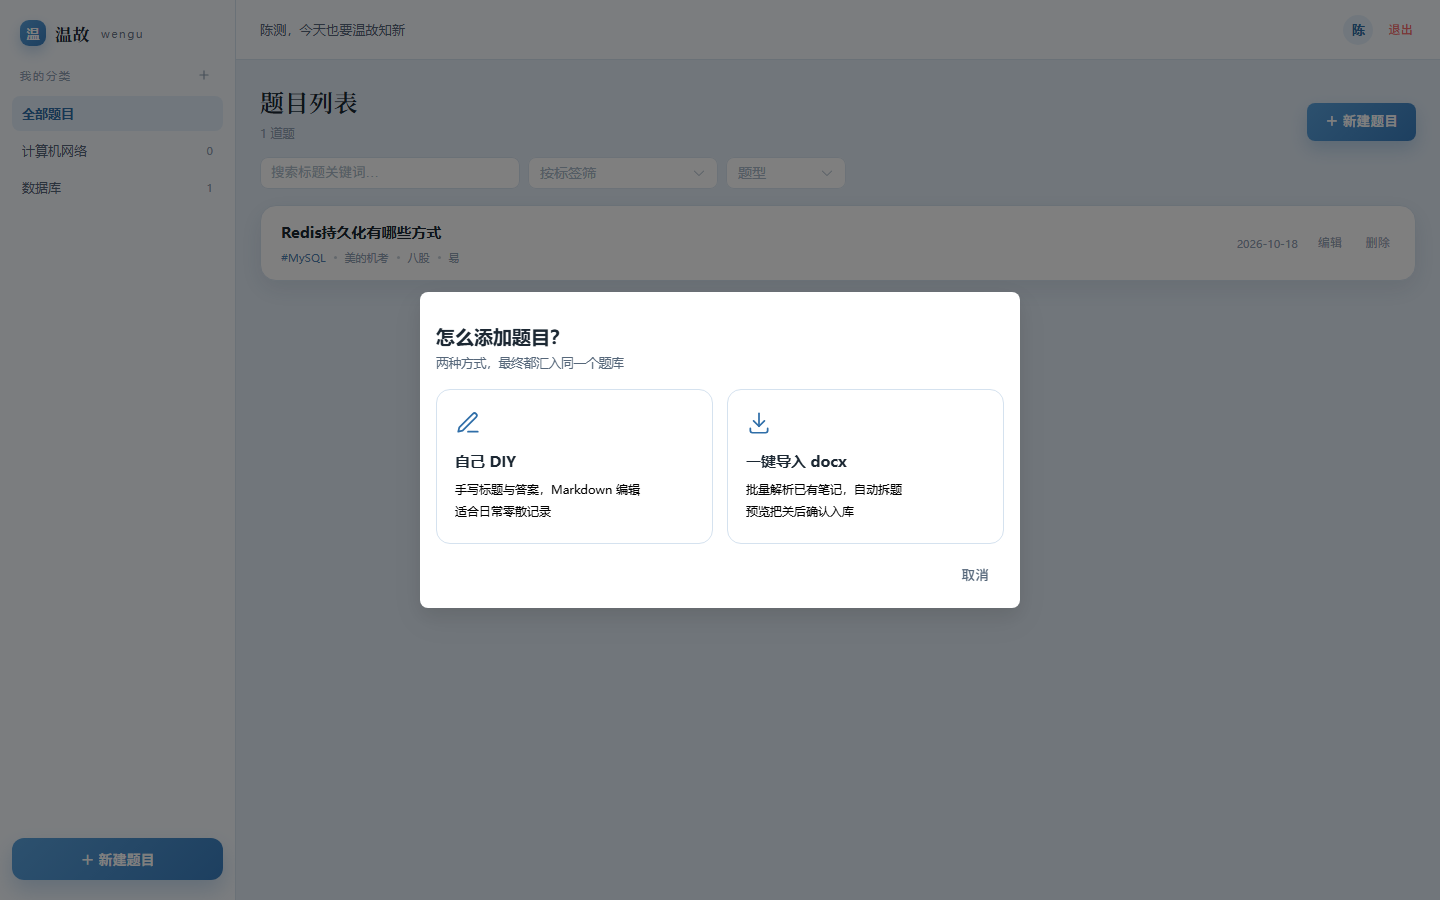
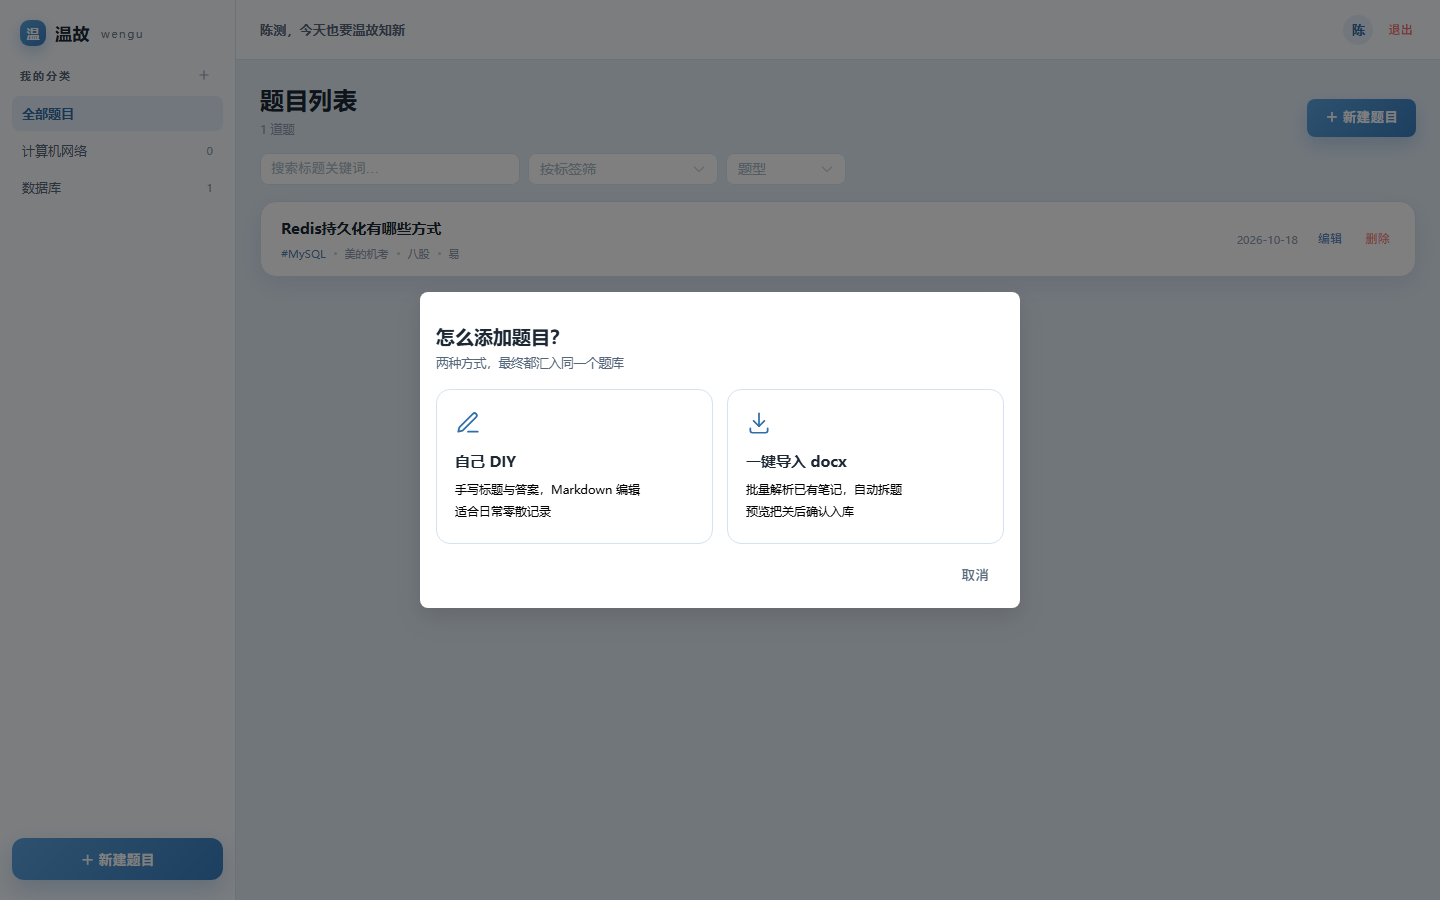
fix(ui): 标题/导航改黑体加粗；行内操作恢复蓝红原色且悬停不加粗
- 全局 h1~h4 700；页面标题去掉衬线改黑体（详情正文标题保留衬线）
- 品牌名/分类标题/问候语字重提升（800/600）
- 列表行编辑/删除：移除颜色覆盖与 hover 变色，恢复 Element 原生 primary/danger
- ui-guidelines 补充标题字重与行内操作规范

diff --git a/frontend/src/views/QuestionListView.vue b/frontend/src/views/QuestionListView.vue
@@ -108,7 +108,7 @@ function remove(id: string) {
 <template>
   <div class="page-head">
     <div>
-      <h1 class="serif">题目列表</h1>
+      <h1>题目列表</h1>
       <p class="sub">{{ total }} 道题<span v-if="hasFilter"> · 已筛选</span></p>
     </div>
     <el-button class="primary-btn" @click="showCreate = true">＋ 新建题目</el-button>
@@ -175,7 +175,7 @@ function remove(id: string) {
 
 <style scoped>
 .page-head { display: flex; justify-content: space-between; align-items: flex-end; gap: 16px; margin-bottom: var(--sp-4) }
-.page-head h1 { margin: 0; font-size: var(--fs-24); font-weight: 600; color: var(--ink); letter-spacing: .5px }
+.page-head h1 { margin: 0; font-size: var(--fs-24); font-weight: 700; color: var(--ink); letter-spacing: .3px }
 .page-head .sub { margin: 6px 0 0; font-size: var(--fs-12); color: var(--ink-3) }
 .primary-btn {
   background: var(--brand-grad); border: none; color: #fff; font-weight: 600;
@@ -209,14 +209,12 @@ function remove(id: string) {
 .dot { width: 3px; height: 3px; border-radius: 50%; background: var(--ink-3); opacity: .5 }
 .right-col { display: flex; align-items: center; gap: var(--sp-4); flex-shrink: 0 }
 .date { font-size: var(--fs-11); color: var(--ink-3); font-variant-numeric: tabular-nums }
-/* 操作区常驻但低对比：不做"突然浮现"，悬停只做颜色加深 */
+/* 操作区：保持 Element 原生蓝/红，不做悬停变色与字重变化（避免浮夸） */
 .ops { display: flex; gap: 2px }
 .ops :deep(.el-button) {
-  color: var(--ink-3); font-size: var(--fs-12); font-weight: 400;
-  padding: 2px 4px; height: auto; transition: color .18s ease;
+  font-size: var(--fs-12); font-weight: 400;
+  padding: 2px 4px; height: auto;
 }
-.ops :deep(.el-button:hover) { color: var(--brand-deep) }
-.ops :deep(.el-button.is-link:hover) { color: var(--brand-deep) }
 .pager { display: flex; justify-content: center; margin-top: var(--sp-5) }
 
 .empty-actions { display: flex; flex-direction: column; align-items: center; gap: 4px }
@@ -228,7 +226,6 @@ function remove(id: string) {
   .sel, .sel-sm { width: calc(50% - 4px) }
   .row { padding: 14px 14px; align-items: flex-start }
   .right-col { flex-direction: column; align-items: flex-end; gap: 4px }
-  .ops { opacity: 1 }
   .t { white-space: normal; display: -webkit-box; -webkit-line-clamp: 2; -webkit-box-orient: vertical }
 }
 </style>

diff --git a/frontend/src/views/HomeView.vue b/frontend/src/views/HomeView.vue
@@ -59,7 +59,7 @@ function logout() {
     <el-aside width="236px" class="side">
       <div class="brand" @click="pickCategory()">
         <span class="mark">温</span>
-        <span class="name serif">温故</span>
+        <span class="name">温故</span>
         <span class="en">wengu</span>
       </div>
 
@@ -119,11 +119,11 @@ function logout() {
   color: #fff; font-size: 13px; display: grid; place-items: center; font-weight: 700;
   box-shadow: 0 6px 14px rgba(59, 130, 196, .28);
 }
-.brand .name { font-size: var(--fs-17); font-weight: 700; color: var(--ink); letter-spacing: .5px }
+.brand .name { font-size: var(--fs-17); font-weight: 800; color: var(--ink); letter-spacing: .5px; font-family: var(--sans) }
 .brand .en { font-size: var(--fs-11); color: var(--ink-2); margin-left: 2px; letter-spacing: 1.5px; opacity: .85 }
 
 .cat-head { display: flex; align-items: center; justify-content: space-between; padding: 0 8px var(--sp-2) }
-.cat-head .label { font-size: var(--fs-11); color: var(--ink-3); letter-spacing: 2px }
+.cat-head .label { font-size: var(--fs-11); color: var(--ink-2); letter-spacing: 2px; font-weight: 600 }
 .cat-add {
   width: 22px; height: 22px; border: none; background: transparent; cursor: pointer;
   color: var(--ink-3); border-radius: 6px; display: grid; place-items: center; padding: 0;
@@ -160,7 +160,7 @@ function logout() {
   height: 60px; padding: 0 var(--sp-6);
   border-bottom: 1px solid var(--line); background: var(--paper);
 }
-.hello { flex: 1; color: var(--ink-2); font-size: var(--fs-13); font-weight: 500; letter-spacing: .2px }
+.hello { flex: 1; color: var(--ink-2); font-size: var(--fs-13); font-weight: 600; letter-spacing: .2px }
 .avatar {
   width: 30px; height: 30px; border-radius: 50%; background: var(--brand-soft);
   color: var(--brand-deep); display: grid; place-items: center;

diff --git a/frontend/src/views/QuestionEditView.vue b/frontend/src/views/QuestionEditView.vue
@@ -84,7 +84,7 @@ async function submit() {
 <template>
   <div class="page-head">
     <div>
-      <h1 class="serif">{{ editId ? '编辑题目' : '新建题目' }}</h1>
+      <h1>{{ editId ? '编辑题目' : '新建题目' }}</h1>
       <p class="sub">{{ editId ? '修改后保存，历史版本可在数据库中回溯' : '先默写答案，再对照补充' }}</p>
     </div>
     <div class="head-ops">
@@ -135,7 +135,7 @@ async function submit() {
 
 <style scoped>
 .page-head { display: flex; justify-content: space-between; align-items: flex-end; gap: 16px; margin-bottom: var(--sp-4) }
-.page-head h1 { margin: 0; font-size: var(--fs-24); font-weight: 600; letter-spacing: .5px }
+.page-head h1 { margin: 0; font-size: var(--fs-24); font-weight: 700; letter-spacing: .3px }
 .page-head .sub { margin: 6px 0 0; font-size: var(--fs-12); color: var(--ink-3) }
 .head-ops { display: flex; gap: var(--sp-2); flex-shrink: 0 }
 .primary-btn { background: var(--brand-grad); border: none; color: #fff; font-weight: 600; box-shadow: 0 8px 18px rgba(59, 130, 196, .26) }

diff --git a/frontend/src/views/ImportView.vue b/frontend/src/views/ImportView.vue
@@ -64,7 +64,7 @@ onBeforeUnmount(() => { es?.close() })
 
 <template>
   <el-card class="wrap" shadow="never">
-    <h3 style="margin-top:0">导入 docx 题库</h3>
+    <h3 style="margin-top:0;font-weight:700">导入 docx 题库</h3>
     <p class="soft">
       支持 .docx（20MB 内）。解析完成后会先进入<b>预览确认</b>：改标题/分类、取消勾选不需要的条目，
       确认后才写入题库。识别不了的内容会收进「散记」条目，不会丢。

diff --git a/frontend/src/views/ImportPreviewView.vue b/frontend/src/views/ImportPreviewView.vue
@@ -98,7 +98,7 @@ async function discard() {
 <template>
   <div class="head">
     <div>
-      <h3 style="margin:0">导入预览确认</h3>
+      <h3 style="margin:0;font-weight:700">导入预览确认</h3>
       <p class="soft">
         共 {{ drafts.length }} 条，已勾选 {{ selectedCount }} 条。改动自动保存。
         强识别=规则明确；弱识别=裸标题推断，重点复核；散记=无法归属的原文兜底。

diff --git a/frontend/src/views/QuestionDetailView.vue b/frontend/src/views/QuestionDetailView.vue
@@ -78,7 +78,7 @@ function removeIt() {
 .kicker { font-size: var(--fs-11); letter-spacing: 3px; color: var(--brand-deep) }
 .sp { flex: 1 }
 .title {
-  margin: 12px 0 10px; font-size: var(--fs-26); font-weight: 600;
+  margin: 12px 0 10px; font-size: var(--fs-26); font-weight: 700;
   line-height: 1.45; color: var(--ink); letter-spacing: .3px;
 }
 .meta {

diff --git a/frontend/src/style.css b/frontend/src/style.css
@@ -107,3 +107,6 @@ a { color: var(--brand-deep); text-decoration: none }
 /* 工具类 */
 .serif { font-family: var(--serif) }
 .muted { color: var(--ink-3) }
+
+/* 标题统一加粗（黑体），避免标题文案与背景融在一起 */
+h1, h2, h3, h4 { font-weight: 700 }
